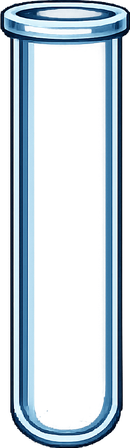
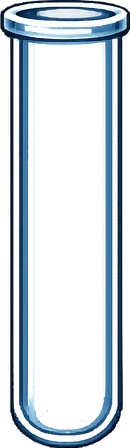
Render balls INSIDE the tube; remove cork
User feedback: cork looked off; balls should look like they're really
inside the glass.

- Re-extracted assets/tube.png so the painted GLASS INTERIOR is fully
  transparent (only dark outline + white highlights remain opaque)
- New DOM: each .tube now contains .tube-balls THEN a .tube-glass div.
  .tube-glass sits absolute inset:0 on top with the tube image as
  background, so the painted outline + highlights overlay the balls
  (balls visually 'inside the glass'). Pointer-events: none so input
  passes through to the tube.
- Removed cork entirely: assets/cork.png deleted, .cork DOM, .cork CSS,
  and --cork-asset variable all gone.

Changed region(s): [[0.0308, 0.0, 0.9846, 1.0], [0.1846, 0.0938, 0.2769, 0.9062]]

diff --git a/styles.css b/styles.css
@@ -84,7 +84,6 @@ button {
 
   /* Tube asset */
   --tube-asset: url("assets/tube.png");
-  --cork-asset: url("assets/cork.png");
   --tube-aspect: 130 / 448; /* matches asset (tall test-tube w/ rounded base) */
   /* Inset for the inner glass area where balls live.
      Painted glass body of the new tube sits inside a thin outline (~12%
@@ -706,8 +705,9 @@ body.theme-light {
   perspective: 1200px;
 }
 
-/* Tube uses the painted asset as background. Inner balls live inside .tube-balls
-   which is inset to match the painted glass interior. */
+/* Tube container holds the balls underneath and an absolute .tube-glass
+   overlay on top that paints the artwork (outline + glass highlights) over
+   the balls so they look like they're physically inside the glass. */
 .tube {
   --slot: clamp(28px, 7vw, 46px);
   --tube-w: calc(var(--slot) / 0.74);
@@ -715,9 +715,6 @@ body.theme-light {
   width: var(--tube-w);
   aspect-ratio: var(--tube-aspect);
   cursor: pointer;
-  background-image: var(--tube-asset);
-  background-size: 100% 100%;
-  background-repeat: no-repeat;
   filter: drop-shadow(0 10px 22px rgba(0, 0, 0, 0.55));
   transition:
     transform 0.28s cubic-bezier(0.2, 0.9, 0.3, 1.1),
@@ -726,6 +723,17 @@ body.theme-light {
   transform: translateY(14px);
   animation: tubeAppear 0.5s cubic-bezier(0.2, 0.9, 0.25, 1) forwards;
   animation-delay: var(--d, 0ms);
+}
+
+/* Tube glass artwork — sits ABOVE the balls, has a fully transparent interior
+   in the PNG so balls show through; only outline + highlights overlay them. */
+.tube-glass {
+  position: absolute;
+  inset: 0;
+  background-image: var(--tube-asset);
+  background-size: 100% 100%;
+  background-repeat: no-repeat;
+  pointer-events: none;
 }
 
 .tube:hover {
@@ -810,37 +818,6 @@ body.theme-light {
   58% { transform: translate(-3px, 1px) rotate(-0.5deg); }
   70% { transform: translate(2px, -1px) rotate(0.3deg); }
   82% { transform: translate(-1px, 0) rotate(-0.2deg); }
-}
-
-/* Cork — small wooden plug that drops into the tube neck on completion.
-   Sprite aspect 101/110, positioned so its bottom plugs the rim opening
-   while the wider top sits above the tube. It overlaps ONLY the rim area
-   (top ~10% of the tube) so it cannot cover the balls inside. */
-.tube .cork {
-  position: absolute;
-  left: 50%;
-  top: 0;
-  width: 55%;
-  aspect-ratio: 101 / 110;
-  background-image: var(--cork-asset);
-  background-size: 100% 100%;
-  background-repeat: no-repeat;
-  pointer-events: none;
-  filter: drop-shadow(0 5px 6px rgba(0, 0, 0, 0.45));
-  opacity: 0;
-  transform: translate(-50%, -120%) rotate(-12deg);
-  transform-origin: 50% 100%;
-  transition:
-    opacity 0.4s cubic-bezier(0.2, 0.9, 0.25, 1),
-    transform 0.55s cubic-bezier(0.18, 1.18, 0.32, 1.05);
-}
-
-.tube.completed .cork {
-  opacity: 1;
-  /* Final state: cork plugged into the rim — bottom of the cork sits ~9%
-     into the tube (well within the painted rim region), wider top stays
-     visible above the glass. */
-  transform: translate(-50%, -50%) rotate(0deg);
 }
 
 .tube.completed {

diff --git a/js/ui.js b/js/ui.js
@@ -115,10 +115,13 @@
       }
       tubeEl.appendChild(ballsWrap);
 
-      // Cork overlay (visible only when tube is completed via CSS).
-      var corkEl = document.createElement("div");
-      corkEl.className = "cork";
-      tubeEl.appendChild(corkEl);
+      // Glass overlay — the tube artwork rendered ABOVE the balls so the
+      // outline + highlights appear on top of them, making the balls look
+      // like they're physically inside the glass. Tube PNG has a fully
+      // transparent interior, so balls remain visible through it.
+      var glassEl = document.createElement("div");
+      glassEl.className = "tube-glass";
+      tubeEl.appendChild(glassEl);
 
       tubesEl.appendChild(tubeEl);
     }
